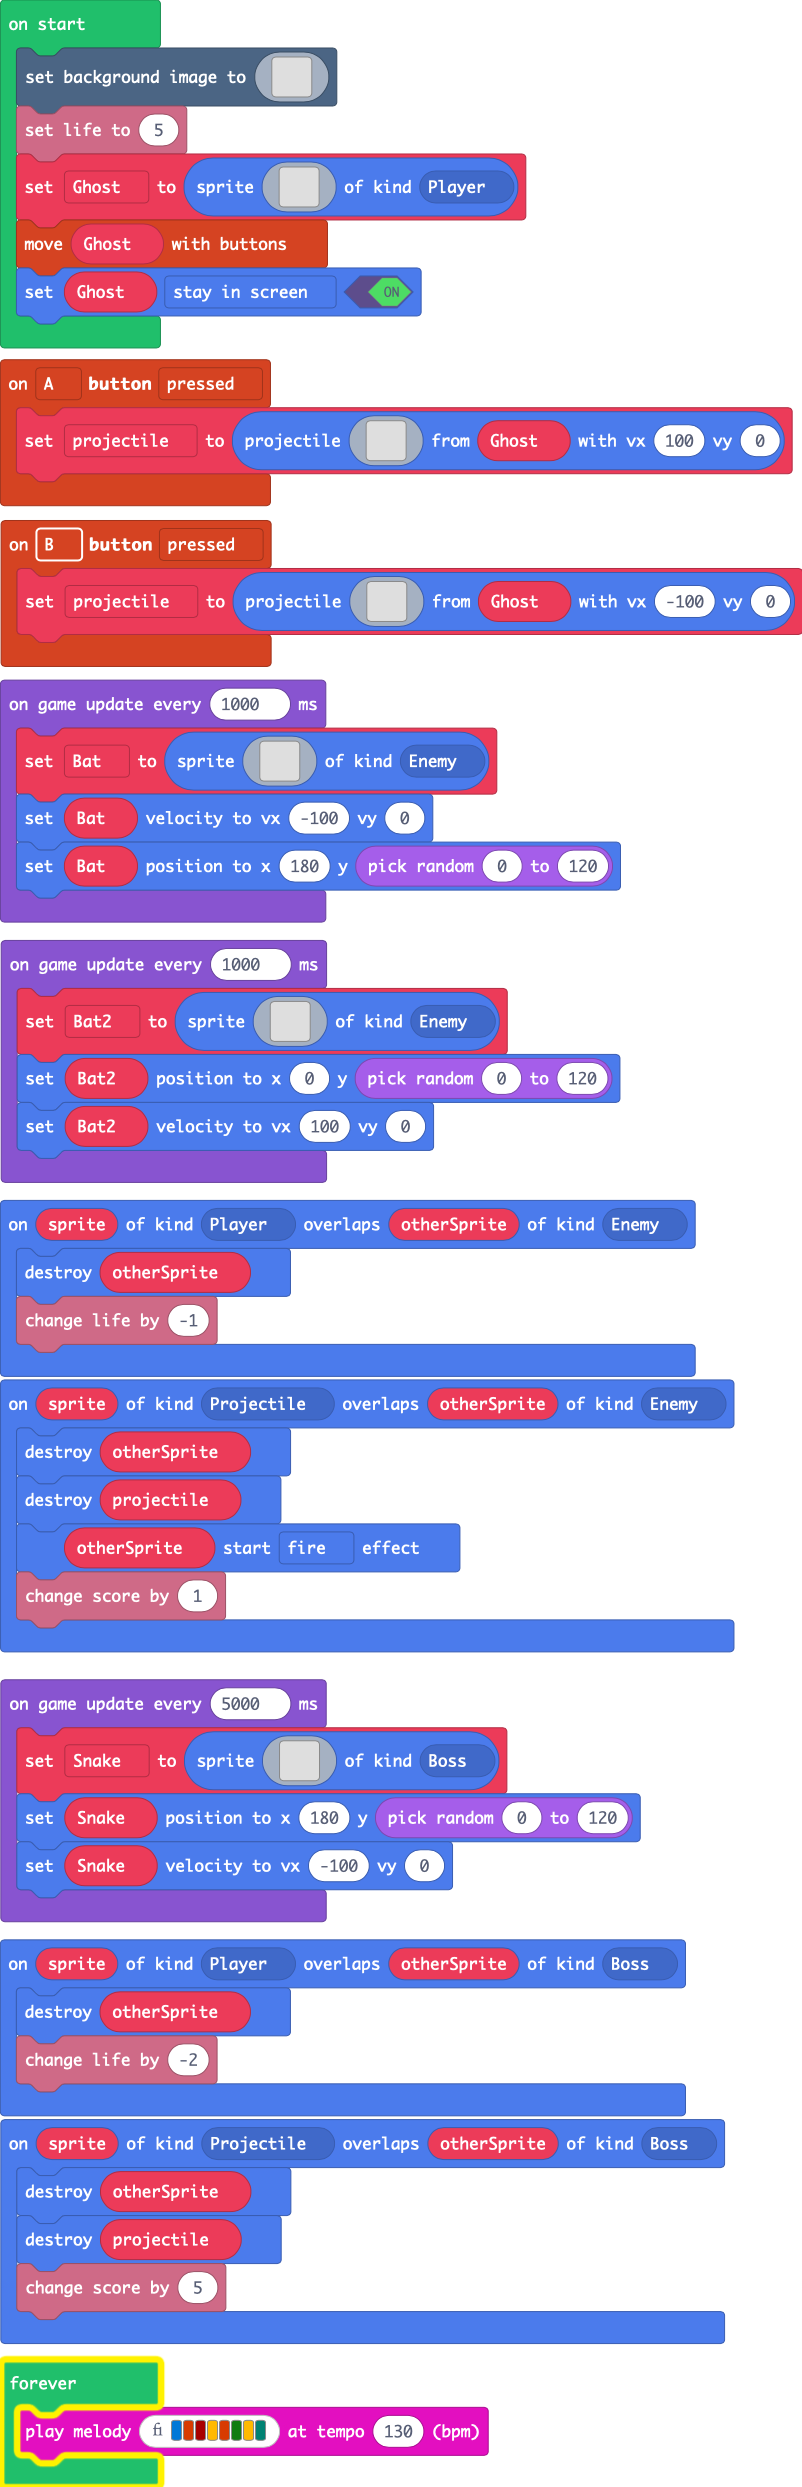
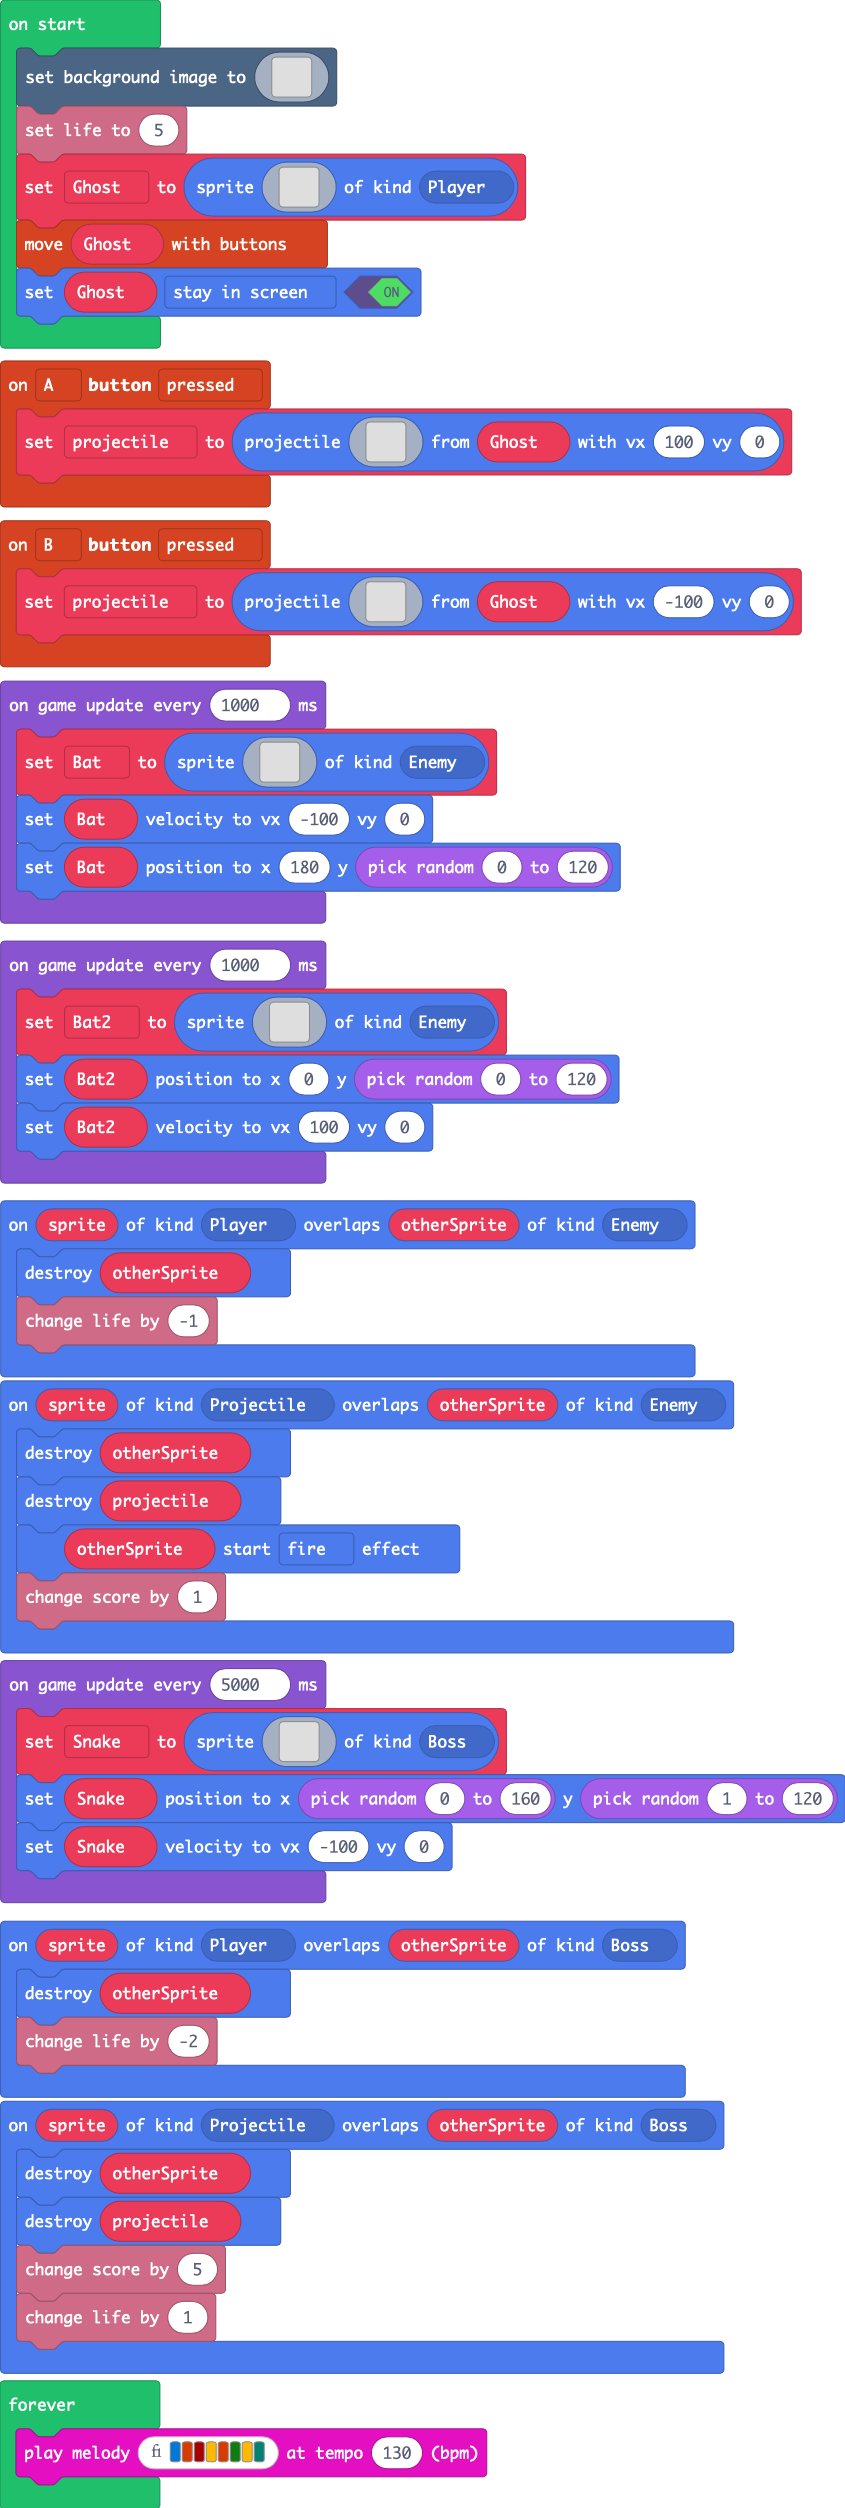
made it so the snake spawns anywhere on the map every 5 seconds and killing it gives you a life

diff --git a/main.ts b/main.ts
@@ -30,6 +30,7 @@ sprites.onOverlap(SpriteKind.Projectile, SpriteKind.Boss, function (sprite, othe
     otherSprite.destroy()
     projectile.destroy()
     info.changeScoreBy(5)
+    info.changeLifeBy(1)
 })
 controller.B.onEvent(ControllerButtonEvent.Pressed, function () {
     projectile = sprites.createProjectileFromSprite(img`
@@ -256,7 +257,7 @@ f 7 7 7 7 7 7 7 7 7 7 f . . . .
 . . c 6 1 1 1 1 1 7 6 6 c c . . 
 . . . c c c c c c c c c c . . . 
 `, SpriteKind.Boss)
-    Snake.setPosition(180, Math.randomRange(0, 120))
+    Snake.setPosition(Math.randomRange(0, 160), Math.randomRange(1, 120))
     Snake.setVelocity(-100, 0)
 })
 forever(function () {
